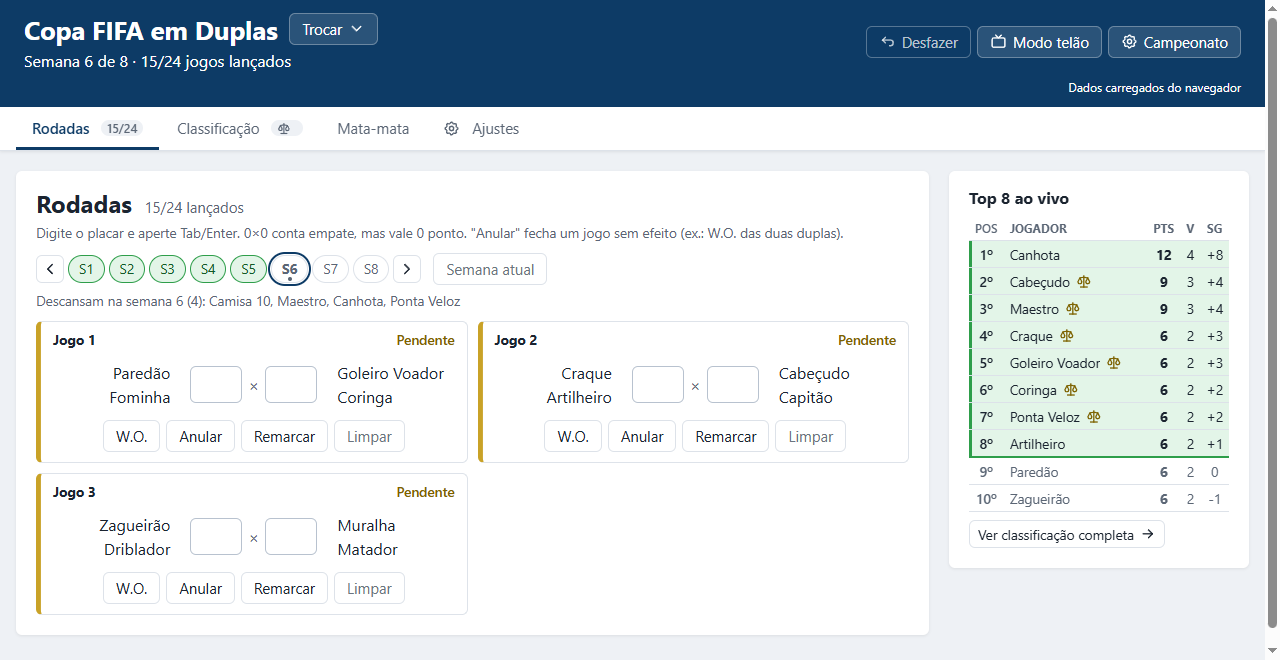
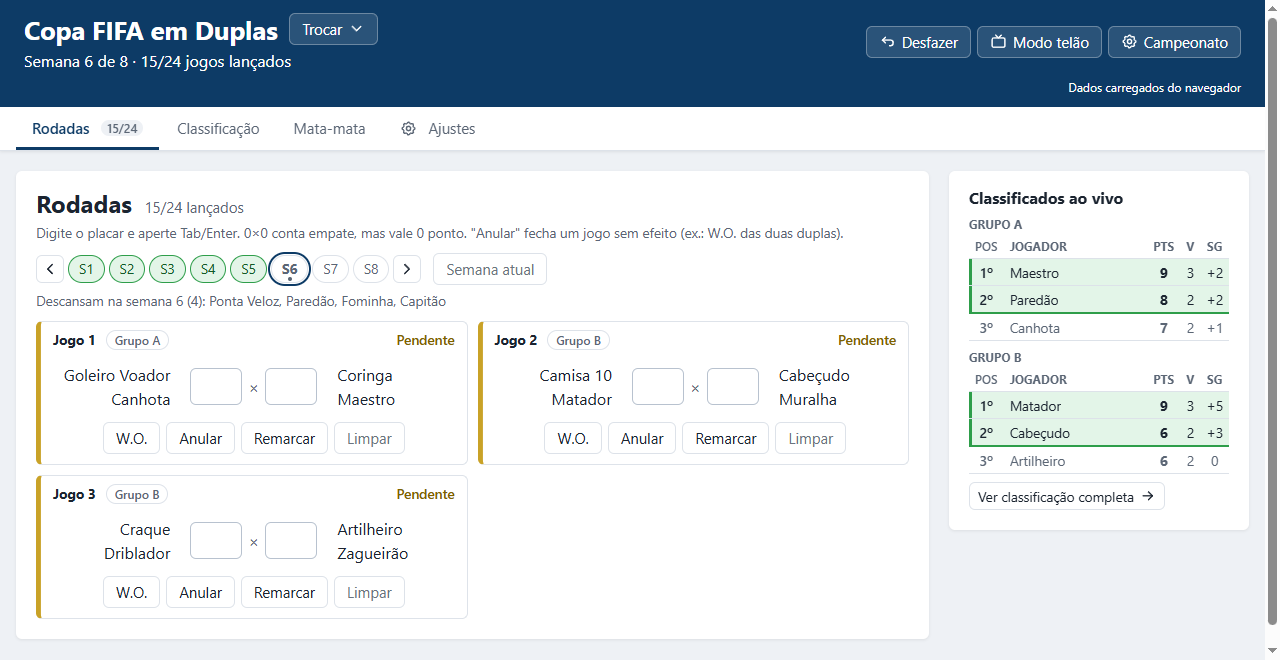
Docs: new README screenshot with the group stage
Rounds tab in a group stage (2 groups of 8, same fictional nicknames as
before, week 6 with 15 of 24 games played): group tag on each game and
each group's qualifiers in the side panel. Alt text updated.

Claude-Session: https://claude.ai/code/session_01T3zEv1sajQDXBvmtiAxcmn

diff --git a/README.md b/README.md
@@ -2,7 +2,7 @@
 
 A small web app to run a 2v2 FIFA tournament from start to finish: sign up the players, draw the whole schedule, enter the scores week by week, follow the individual standings live and run the knockout stage up to a best-of-3 final.
 
-![Standings and weekly rounds](docs/print.png)
+![Weekly rounds in a group stage, with each group's qualifiers](docs/print.png)
 
 ## What it does
 
@@ -44,7 +44,7 @@ MIT. See [`LICENSE`](LICENSE).
 
 Um aplicativo web simples para conduzir um campeonato de FIFA em duplas do começo ao fim: cadastrar os jogadores, sortear o calendário inteiro, lançar os placares semana a semana, acompanhar a classificação individual ao vivo e conduzir o mata-mata até a final em melhor de 3.
 
-![Classificação e rodadas da semana](docs/print.png)
+![Rodadas da semana numa fase de grupos, com os classificados de cada grupo](docs/print.png)
 
 ## O que faz
 
